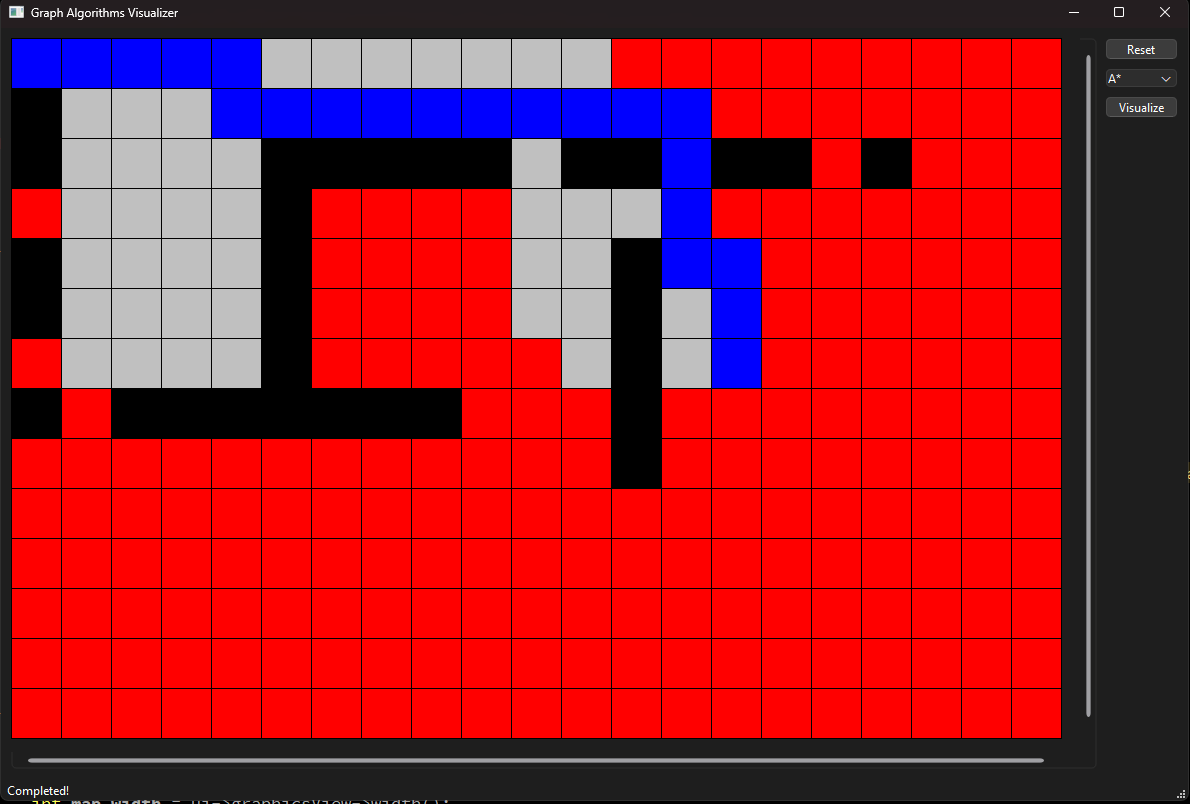
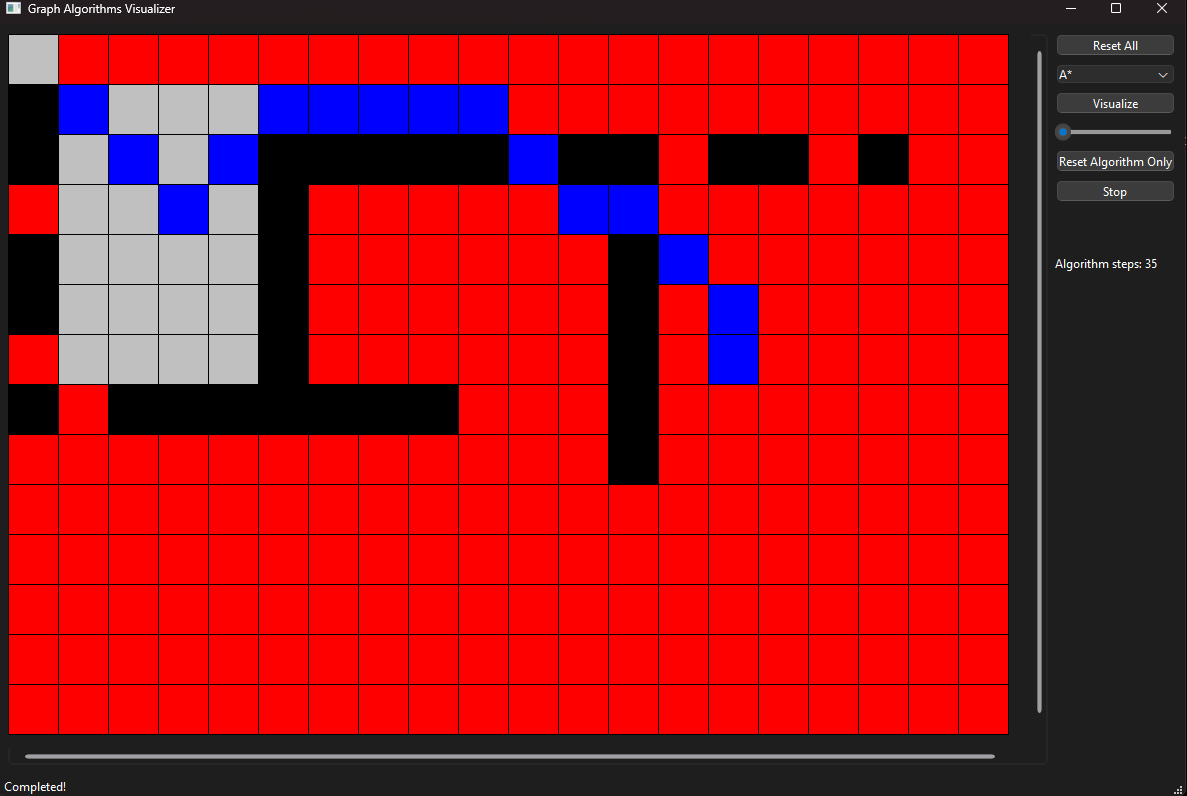
- add Dijkstra's algo
- search diagonal neighbours
- Ability to stop/cancel visualization while processing
- Ability to speed up or slow down visualization speed.

diff --git a/mainwindow.cpp b/mainwindow.cpp
@@ -92,6 +92,7 @@ void MainWindow::clear_data_structures()
     ui->steps_label->setText("");
     target_selected=false;
     target_square = nullptr;
+    stop_btn_clicked=false;
 }
 
 void MainWindow::set_algorithms_steps(int steps)
@@ -118,7 +119,10 @@ void MainWindow::on_go_clicked()
         steps=dfs();
 
     }else if  (ui->algorithm->currentText() == "A*"){
-        steps=A_star();
+        steps=A_star(true); // A* with calculating heuristics
+
+    }else if  (ui->algorithm->currentText() == "Dijkstra"){
+        steps=A_star(false); // A* without calculating heuristics
     }
 
     ui->statusbar->showMessage("Completed!");
@@ -134,7 +138,7 @@ int MainWindow::bfs()
     // Store the predecessor of each node for path reconstruction
     std::unordered_map<QGraphicsRectItem*, QGraphicsRectItem*> came_from;
 
-    while (!finish) {
+    while ((!finish) && (!stop_btn_clicked)) {
         // add neighbours
         for (auto nei : get_neighbours(bfs_queue.front())) {
             int row = nei->rect().y() / square_size;
@@ -155,11 +159,13 @@ int MainWindow::bfs()
 
         bfs_queue.pop();
         finish |= bfs_queue.empty();
-        delay(STEP_DELAY);
+        delay(step_delay);
         steps++;
     }
 
-    reconstruct_path(came_from);
+    if(finish){
+        reconstruct_path(came_from);
+    }
     return steps;
 }
 
@@ -173,7 +179,7 @@ int MainWindow::dfs()
     // Store the predecessor of each node for path reconstruction
     std::unordered_map<QGraphicsRectItem*, QGraphicsRectItem*> came_from;
 
-    while (!finish) {
+    while ((!finish) && (!stop_btn_clicked)) {
         QGraphicsRectItem* current = dfs_stack.top();
         map_squares[current->rect().y() / square_size][current->rect().x() / square_size]->setBrush(Qt::lightGray);
         dfs_stack.pop();
@@ -196,15 +202,17 @@ int MainWindow::dfs()
         }
 
         finish |= dfs_stack.empty();
-        delay(STEP_DELAY);
+        delay(step_delay);
         steps++;
     }
 
-    reconstruct_path(came_from);
+    if(finish){
+        reconstruct_path(came_from);
+    }
     return steps;
 }
 
-int MainWindow::A_star()
+int MainWindow::A_star(bool calculate_heuristics)
 {
     // Initialize the start and goal positions
     QGraphicsRectItem* start = map_squares[0][0];  // Example start position
@@ -218,12 +226,17 @@ int MainWindow::A_star()
     std::unordered_map<QGraphicsRectItem*, int> g_cost_map;  // Store g_cost for each node
 
     // Initialize the start node
-    open_list.push(Node{start, 0, calculate_heuristic(start, target_square)});
+    if(calculate_heuristics){
+        open_list.push(Node{start, 0, calculate_heuristic(start, target_square)});
+    }else{
+        open_list.push(Node{start, 0, 0});
+    }
+
     g_cost_map[start] = 0;
 
     bool finish = false;
 
-    while (!open_list.empty() && !finish) {
+    while ((!open_list.empty()) && (!finish) && (!stop_btn_clicked)) {
         // Get the node with the lowest f_cost
         Node current_node = open_list.top();
         open_list.pop();
@@ -250,7 +263,11 @@ int MainWindow::A_star()
             }
 
             int tentative_g_cost = g_cost_map[current] + 1;  // Assuming uniform cost for simplicity
-            int h_cost = calculate_heuristic(nei, target_square);
+
+            int h_cost=0;
+            if(calculate_heuristics){
+                h_cost = calculate_heuristic(nei, target_square);
+            }
 
             // If this path is better, or the neighbor is not in the open list yet
             if (g_cost_map.find(nei) == g_cost_map.end() || tentative_g_cost < g_cost_map[nei]) {
@@ -260,14 +277,15 @@ int MainWindow::A_star()
             }
         }
 
-        delay(STEP_DELAY);
+        delay(step_delay);
         steps++;
     }
 
-    reconstruct_path(came_from);
+    if(finish){
+        reconstruct_path(came_from);
+    }
     return steps;
 }
-
 
 std::vector<QGraphicsRectItem *> MainWindow::get_neighbours(QGraphicsRectItem *current_square)
 {
@@ -275,9 +293,19 @@ std::vector<QGraphicsRectItem *> MainWindow::get_neighbours(QGraphicsRectItem *c
     int col = current_square->rect().x() /square_size;
     std::vector<QGraphicsRectItem *> result{};
 
+    // top right neighbour
+    if((row > 0) && (col < map_squares[0].size() -1)){
+        result.push_back(map_squares[row-1][col+1]);
+    }
+
     // right neighbour
     if(col < map_squares[0].size() -1){
         result.push_back(map_squares[row][col+1]);
+    }
+
+    // bottom right neighbour
+    if((col < map_squares[0].size() -1) && (row < map_squares.size() -1)){
+        result.push_back(map_squares[row+1][col+1]);
     }
 
     // bottom neighbour
@@ -285,9 +313,19 @@ std::vector<QGraphicsRectItem *> MainWindow::get_neighbours(QGraphicsRectItem *c
         result.push_back(map_squares[row+1][col]);
     }
 
+    // bottom left neighbour
+    if((row < map_squares.size() -1) && (col > 0)){
+        result.push_back(map_squares[row+1][col-1]);
+    }
+
     // left neighbour
     if(col > 0){
         result.push_back(map_squares[row][col-1]);
+    }
+
+    // top left neighbour
+    if((col > 0) && (row > 0)){
+        result.push_back(map_squares[row-1][col-1]);
     }
 
     // top neighbour
@@ -322,5 +360,17 @@ int MainWindow::calculate_heuristic(QGraphicsRectItem *current, QGraphicsRectIte
 void MainWindow::on_reset_algorithm_clicked()
 {
     clear_algorithm();
+}
+
+
+void MainWindow::on_speed_valueChanged(int value)
+{
+    step_delay = value;
+}
+
+
+void MainWindow::on_stop_visualization_clicked()
+{
+    stop_btn_clicked=true;
 }
 

diff --git a/mainwindow.h b/mainwindow.h
@@ -14,8 +14,6 @@
 #include <QTimer>
 #include <queue>
 
-#define STEP_DELAY (200)
-
 QT_BEGIN_NAMESPACE
 namespace Ui {
 class MainWindow;
@@ -37,14 +35,20 @@ private slots:
 
     void on_reset_algorithm_clicked();
 
+    void on_speed_valueChanged(int value);
+
+    void on_stop_visualization_clicked();
+
 private:
     Ui::MainWindow *ui;
     QGraphicsScene scene;
     int square_size = 50;
+    int step_delay = 200;
     void clear_gui();
     void clear_algorithm();
     void clear_data_structures();
     void set_algorithms_steps(int steps);
+    bool stop_btn_clicked{false};
 
     // Visualiaztion-related
     bool target_selected=false; // to avoid selecting multiple targets
@@ -53,17 +57,20 @@ private:
     std::vector<QGraphicsRectItem*> get_neighbours(QGraphicsRectItem* current_square);
     void reconstruct_path(std::unordered_map<QGraphicsRectItem*, QGraphicsRectItem*> came_from_map);
 
-    // BFS
+    // BFS :
     std::queue<QGraphicsRectItem*> bfs_queue;
     int bfs();
 
-    // DFS
+    // DFS :
     std::stack<QGraphicsRectItem*> dfs_stack;
     int dfs();
 
-    // A*
+    // A* :
     int calculate_heuristic(QGraphicsRectItem* current, QGraphicsRectItem* goal);
-    int A_star();
+    int A_star(bool calculate_heuristics);
+
+    // Dijkstra :
+    // same as A* but without the heuristic function
 
 };
 #endif // MAINWINDOW_H

diff --git a/README.md b/README.md
@@ -6,12 +6,16 @@
 - Adding the target square by pressing right click on a square.
 - Ability to reset the visualization and start with different algorithm/target/obstacles.
 - Reconstruct the path in blue when target square is found.
+- Ability to search diagonal neighbours.
 - Ability to clear only algorithm visualization and keep obstacles.
+- Ability to stop/cancel visualization while processing (you have to press on "Reset All" or "Reset Algorithm Only" to visualize again)
+- Ability to speed up or slow down visualization speed.
 
 ## Supported Graph algorithms
 - BFS
 - DFS
 - A* (AI generated)
+- Dijkstra
 
 ## Preview
 check YouTube video: https://youtu.be/5fRgi-NXamE?si=FYzD_LM0E5M3XVew
@@ -26,4 +30,3 @@ check YouTube video: https://youtu.be/5fRgi-NXamE?si=FYzD_LM0E5M3XVew
 ## To-Do
 - Support more graph algorithms!
 - Use Strategy design pattern for different graph algorithms.
-- Add diagonal movement
